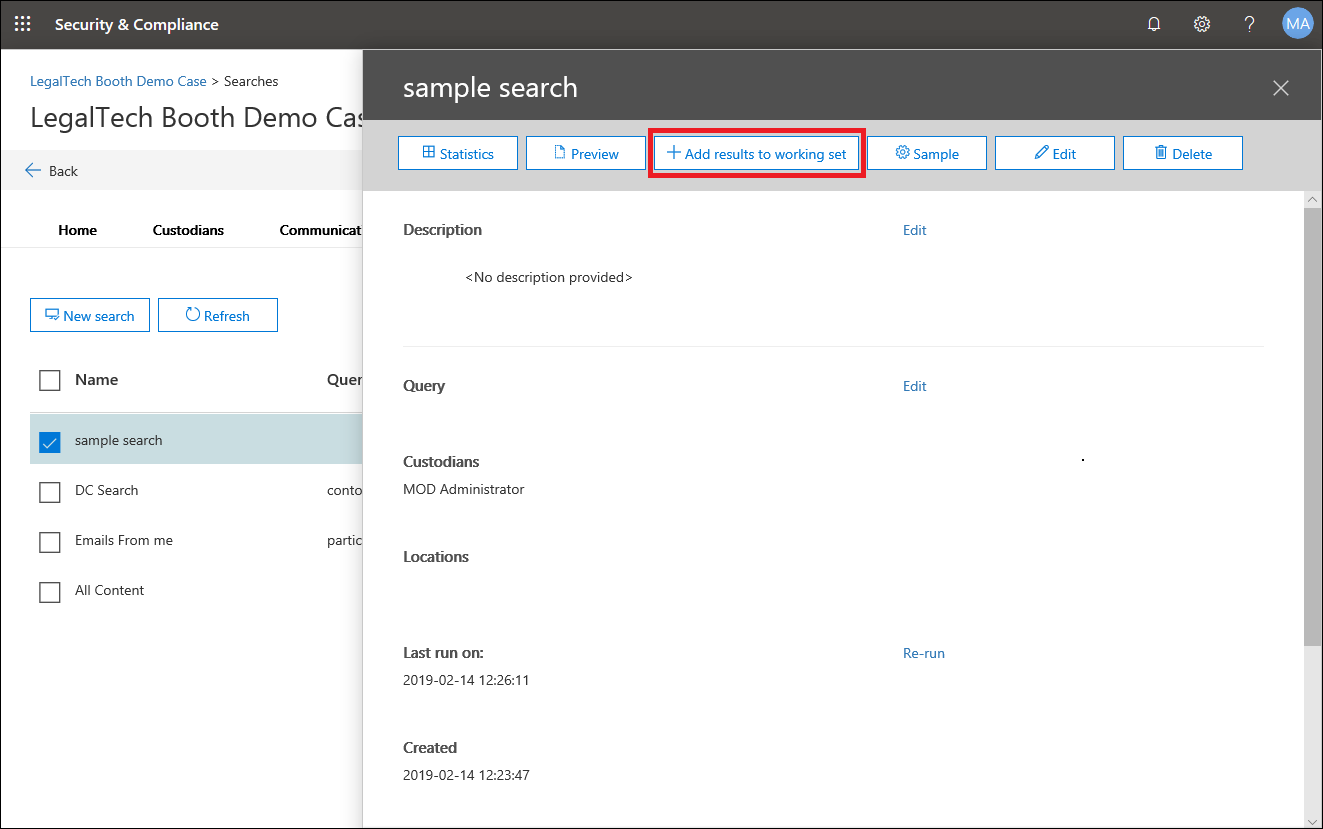
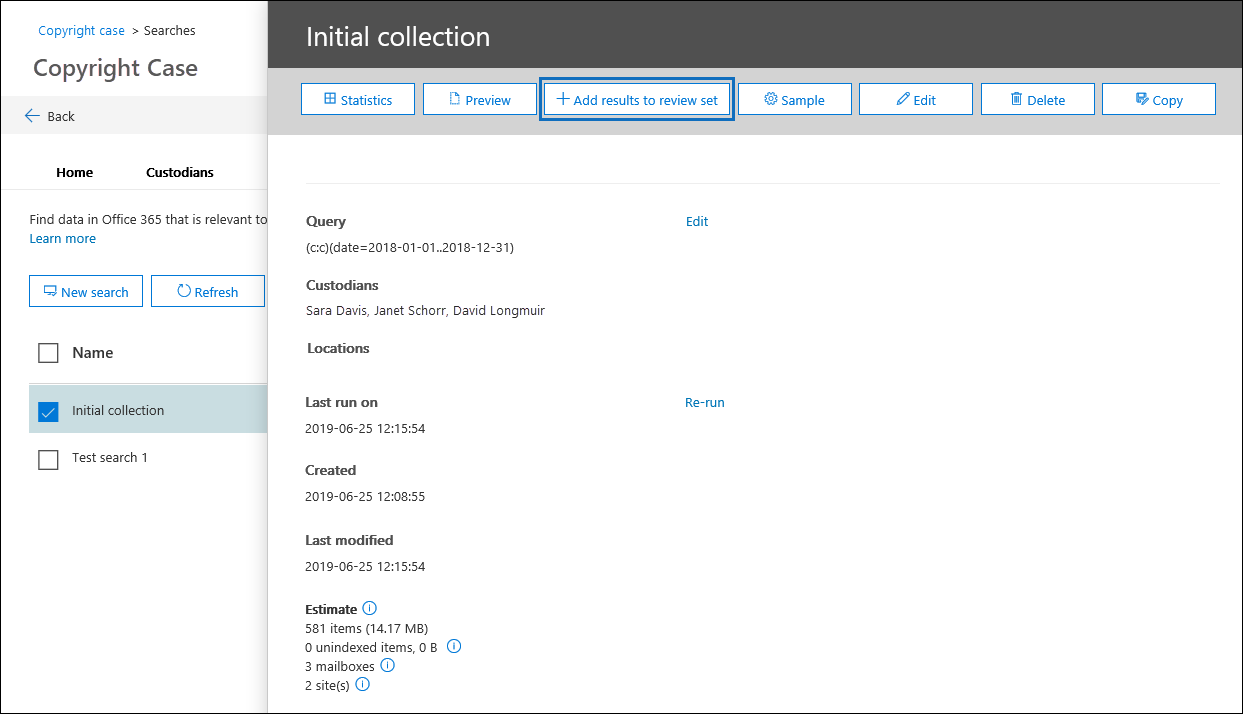
updated add results to review set, new screenshots

diff --git a/SecurityCompliance/compliance20/add-data-to-review-set.md b/SecurityCompliance/compliance20/add-data-to-review-set.md
@@ -21,13 +21,15 @@ description: ""
 
 When you're satisfied with the results of a search and you're ready to review and analyze those search results, you can add them to a review set in the case. Copying the original data to the review set also facilitates the review and analysis process by providing you with advanced analytics tools such as themes detection, near-duplicate detection, and email thread identification. You can also add data from non-Office 365 data sources to a review set so that you can review that data in addition to the data you collect from Office 365.
 
-When you add the results of a search to a review set (review sets are located on the **Review sets** tab of the case), the following two things occur:
+When you add the results of a search to a review set (review sets are located on the **Review sets** tab of the case), the following things occur:
+
+- The search is run again. This means the actual search results copied to the review set may be different than the estimated results that were returned when the search was last run.
 
 - All items in the search results are copied from the original data source in the live Office 365 services, and copied to a secure Azure storage location in the Microsoft cloud.
 
 - All items (including the content and metadata) are re-indexed so that all data in the review set is fully searchable during the review of the case data. Re-indexing the data results in thorough and very fast searches when you search the data in the review set during the case investigation.
 
-To add data to a review set, click a search on the **Searches** tab and then click **Add results to review set** on the flyout page.
+To add data to a review set, click a search on the **Searches** tab, and then click **Add results to review set** on the flyout page.
 
 ![Adding data to a review set](../media/c1b4fc00-7a15-4587-b9b0-ce594bb02e4d.png)
 
@@ -35,7 +37,7 @@ Note that you can add to an existing review set or create a new review set.  If 
 
 ![Select a review set](../media/e8c6ab51-da8d-4c39-9b21-26bfdf453fb9.png)
 
-Adding data to a review set is a long-running process. This process includes gathering items from the original data sources in Office 365 (for example, from mailboxes and sites), copying them to the Azure storage location (this copying process is also called *ingestion*), and then re-indexing the items. You can track the progress on the **Jobs** tab or on the **Searches** tab by monitoring the status in the **Added data to review set** column. After the review set processing is completed, click the **Review sets** tab in the case, and then click the review set to start the process filtering, reviewing, tagging, and exporting data in the review set.
+Adding data to a review set is a long-running process. This process includes gathering items from the original data sources in Office 365 (for example, from mailboxes and sites), copying them to the Azure storage location (this copying process is also called *ingestion*), and then re-indexing the items. You can track the progress on the **Jobs** tab or on the **Searches** tab by monitoring the status in the **Added data to review set** column. After the review set processing is completed, click the **Review sets** tab in the case, and click the review set to start the process of filtering, reviewing, tagging, and exporting data in the review set.
 
 ## Add a sample to a review set
 
@@ -43,8 +45,8 @@ If you want to validate the results of a search more thoroughly before adding al
 
 To add a sample to a review set, click a search on the **Searches** tab and click **Sample** on the flyout page. On the **Sampling parameters** page, choose one of the following options:
 
-- **Confidence level %** and **Confidence interval %** - The items added to the review set will be determined by the statistical parameters that you set. If you typically use a confidence level and interval when sampling results, specify them in the drop-down boxes. Otherwise, just use the default settings.
+- **Confidence level %** and **Confidence interval %** – The items added to the review set will be determined by the statistical parameters that you set. If you typically use a confidence level and interval when sampling results, specify them in the drop-down boxes. Otherwise, just use the default settings.
 
-- **Random sample %** - The items added to the review set is based on a random selection of the specified percentage of the total number of items returned by the search.
+- **Random sample %** – The items added to the review set is based on a random selection of the specified percentage of the total number of items returned by the search.
 
 After selecting and configuring one of the previous options, choose an existing review set to add the sample to and then click **Send**. Again, you can track the progress on the **Jobs** tab or on the **Searches** tab by monitoring the status in the **Added data to review set** column.
